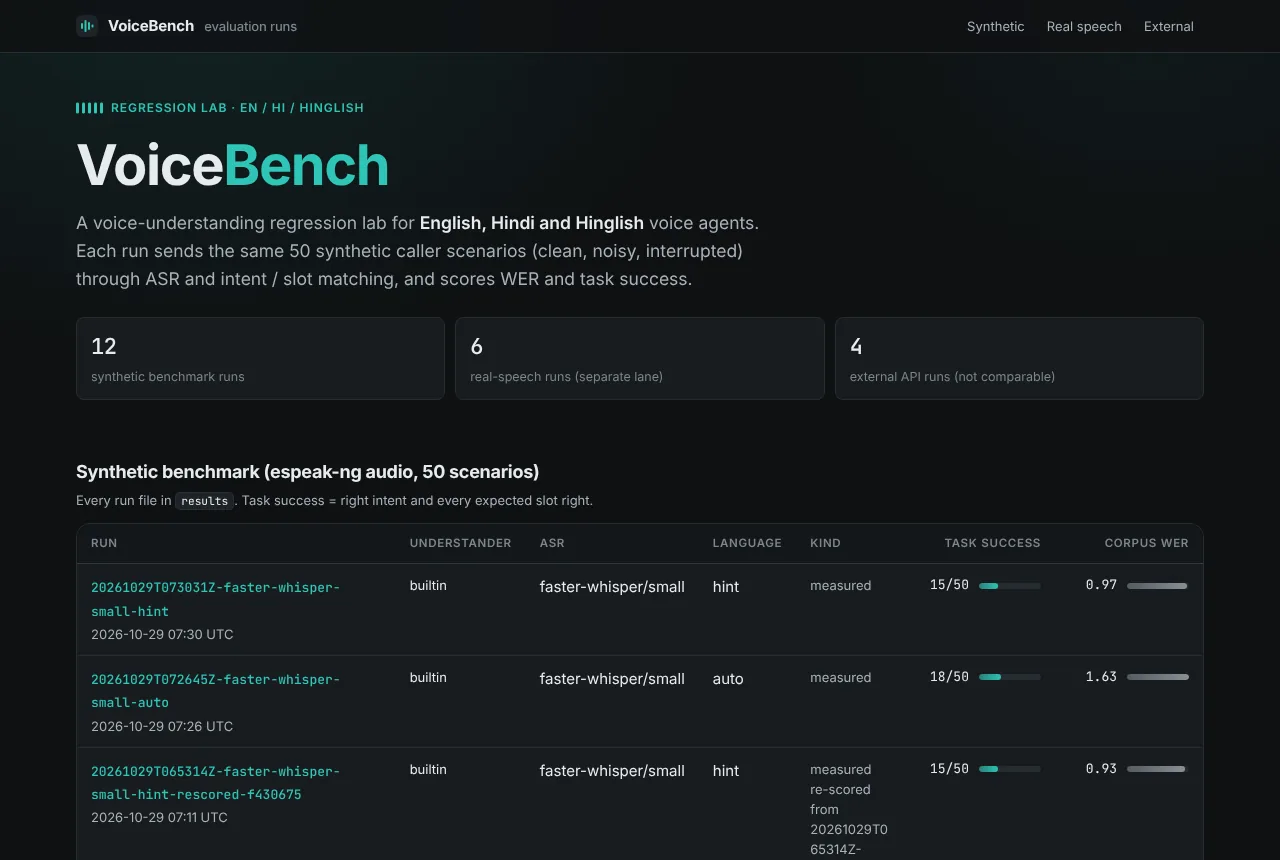
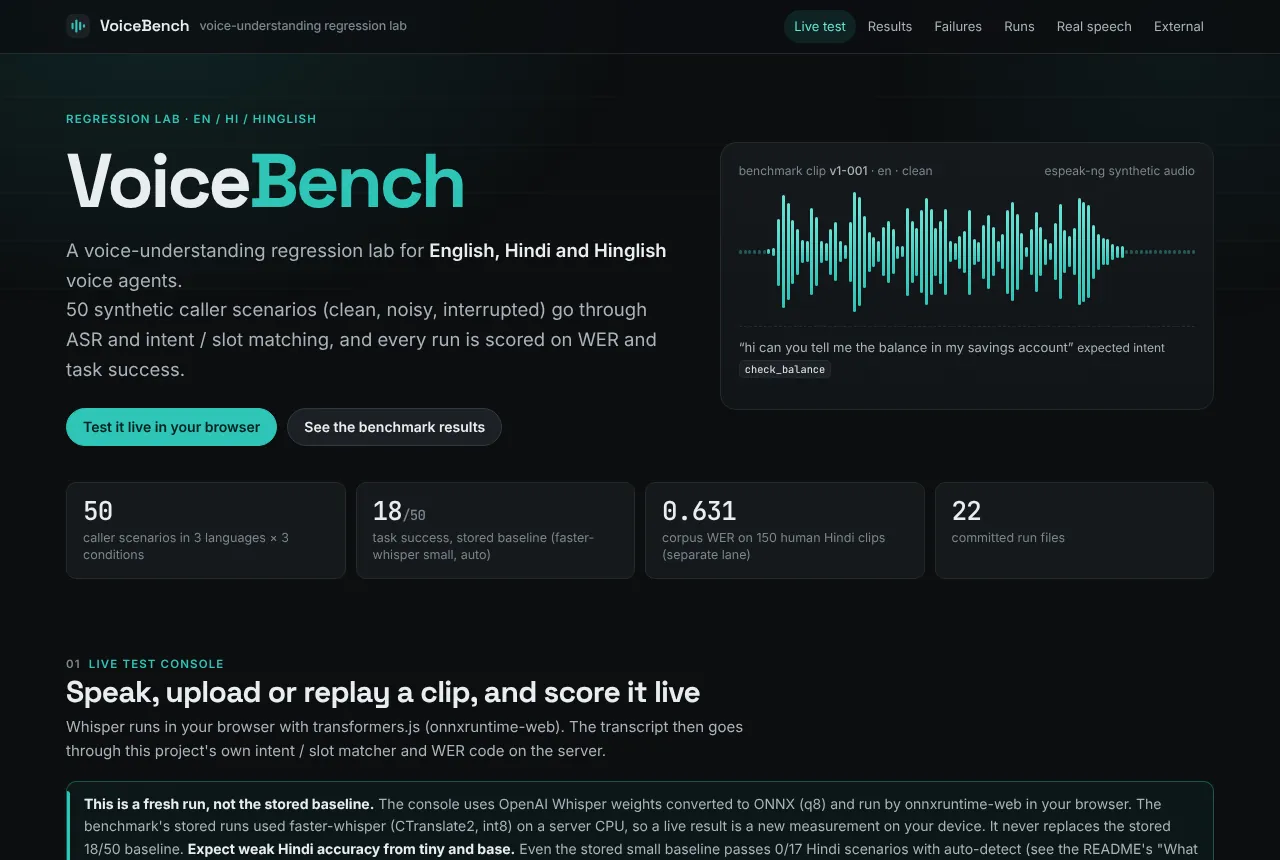
README: live console section and new screenshots
New 1280 px and 390 px screenshots of the redesigned home page, the live
console downloading a model and showing a real result (whisper-tiny on
benchmark clip v1-002 next to the stored baseline), the results heatmaps
and a run page, as WebP (38 to 67 KB each). The console's idle state is
in docs/LIVE_CONSOLE.md.

diff --git a/README.md b/README.md
@@ -211,27 +211,47 @@ It runs trusted local Python code only. The contract, the Python-level
 transcriber hook and their limits (built-in domains and intents only, no
 HTTP) are in [`docs/ADAPTERS.md`](docs/ADAPTERS.md).
 
-### Deploying the dashboard (Vercel)
+### Dashboard and live test console (Vercel)
 
-The dashboard is read-only, so it can be hosted as one Python function on
-Vercel's free Hobby plan. `app.py` at the repo root exposes
-`app = create_app(...)` with `results/`, `results/realspeech`,
-`results/gnani` and `audio/v1` resolved from the repo root;
-`requirements.txt` lists only what the dashboard imports (FastAPI, Jinja2,
-pydantic, jiwer: no faster-whisper, numpy or scipy); `vercel.json` keeps
-tests and docs out of the bundle; `.python-version` pins 3.13. Import the
-repository in Vercel (or run `vercel deploy`) with no build settings. The
-same app runs locally with `uvicorn app:app`; `make run` is unchanged.
-The deployed pages show only the committed run files: nothing is run or
-re-scored there.
+The dashboard opens with a **live test console**: Whisper tiny, base or
+small (onnx-community ONNX, q8, pinned revisions) runs in the visitor's
+browser with transformers.js (WebGPU if available, else WASM). Record from
+the microphone, upload a file (30 s, 10 MB) or replay one of the 50
+benchmark clips next to its stored baseline transcript. Audio is processed
+in the browser and never uploaded; only the text transcript (and an
+optional reference sentence) is sent to `/api/analyze`, which runs this
+repo's matcher and WER code and does not store or log it. A live result is
+a fresh run of a different model build, never the stored baseline. Details,
+model licences and a measurement on 30 human Hindi clips (every browser
+model had corpus WER above 1 there): [`docs/LIVE_CONSOLE.md`](docs/LIVE_CONSOLE.md).
 
-Screenshots of the dashboard on the committed runs (index, then the run
-page of `20261029T072645Z-faster-whisper-small-auto`):
+Below the console: task success and WER heatmaps by language × condition,
+a failure explorer, every committed run, the real-speech lane and the
+external (Gnani) lane, with their caveats.
+
+It deploys as one Python function on Vercel's free Hobby plan. `app.py` at
+the repo root exposes `app = create_app(...)` with `results/`,
+`results/realspeech`, `results/gnani` and `audio/v1` resolved from the
+repo root; `requirements.txt` lists only what the dashboard imports
+(FastAPI, Jinja2, pydantic, jiwer: no faster-whisper, numpy or scipy; the
+bundle is about 35 MB); `vercel.json` keeps tests, docs and tools out of
+the bundle and sets the cross-origin isolation headers the console uses
+for WASM threads; `.python-version` pins 3.13. Import the repository in
+Vercel (or run `vercel deploy`) with no build settings. Locally:
+`uvicorn app:app`, or `make run` as before. The model files come from
+Hugging Face and the library from jsDelivr, both on their free tiers.
 
 | desktop, 1280 px | phone, 390 px |
 |---|---|
-| <img src="docs/screenshots/dashboard-index-1280.webp" alt="Dashboard run list at 1280 px wide" width="560"> | <img src="docs/screenshots/dashboard-index-390.webp" alt="Dashboard run list at 390 px wide" width="200"> |
-| <img src="docs/screenshots/dashboard-run-1280.webp" alt="Run page at 1280 px wide" width="560"> | <img src="docs/screenshots/dashboard-run-390.webp" alt="Run page at 390 px wide" width="200"> |
+| <img src="docs/screenshots/dashboard-index-1280.webp" alt="Home page hero at 1280 px" width="560"> | <img src="docs/screenshots/dashboard-index-390.webp" alt="Home page hero at 390 px" width="200"> |
+| <img src="docs/screenshots/console-midrun-1280.webp" alt="Live console downloading whisper-tiny at 1280 px" width="560"> | <img src="docs/screenshots/console-midrun-390.webp" alt="Live console downloading whisper-tiny at 390 px" width="200"> |
+| <img src="docs/screenshots/console-result-1280.webp" alt="Live console result for benchmark clip v1-002 next to the stored baseline, 1280 px" width="560"> | <img src="docs/screenshots/console-result-390.webp" alt="Live console result at 390 px" width="200"> |
+| <img src="docs/screenshots/results-1280.webp" alt="Task success and WER heatmaps at 1280 px" width="560"> | <img src="docs/screenshots/dashboard-run-390.webp" alt="Run page at 390 px" width="200"> |
+
+The result screenshots show a real run: whisper-tiny in headless Chromium
+heard benchmark clip v1-002 ("please send five thousand rupees to rahul")
+as "Please, and five thousand rupees to my home." (no intent, task failed),
+where the stored faster-whisper small run passed.
 
 ## Limitations
 
